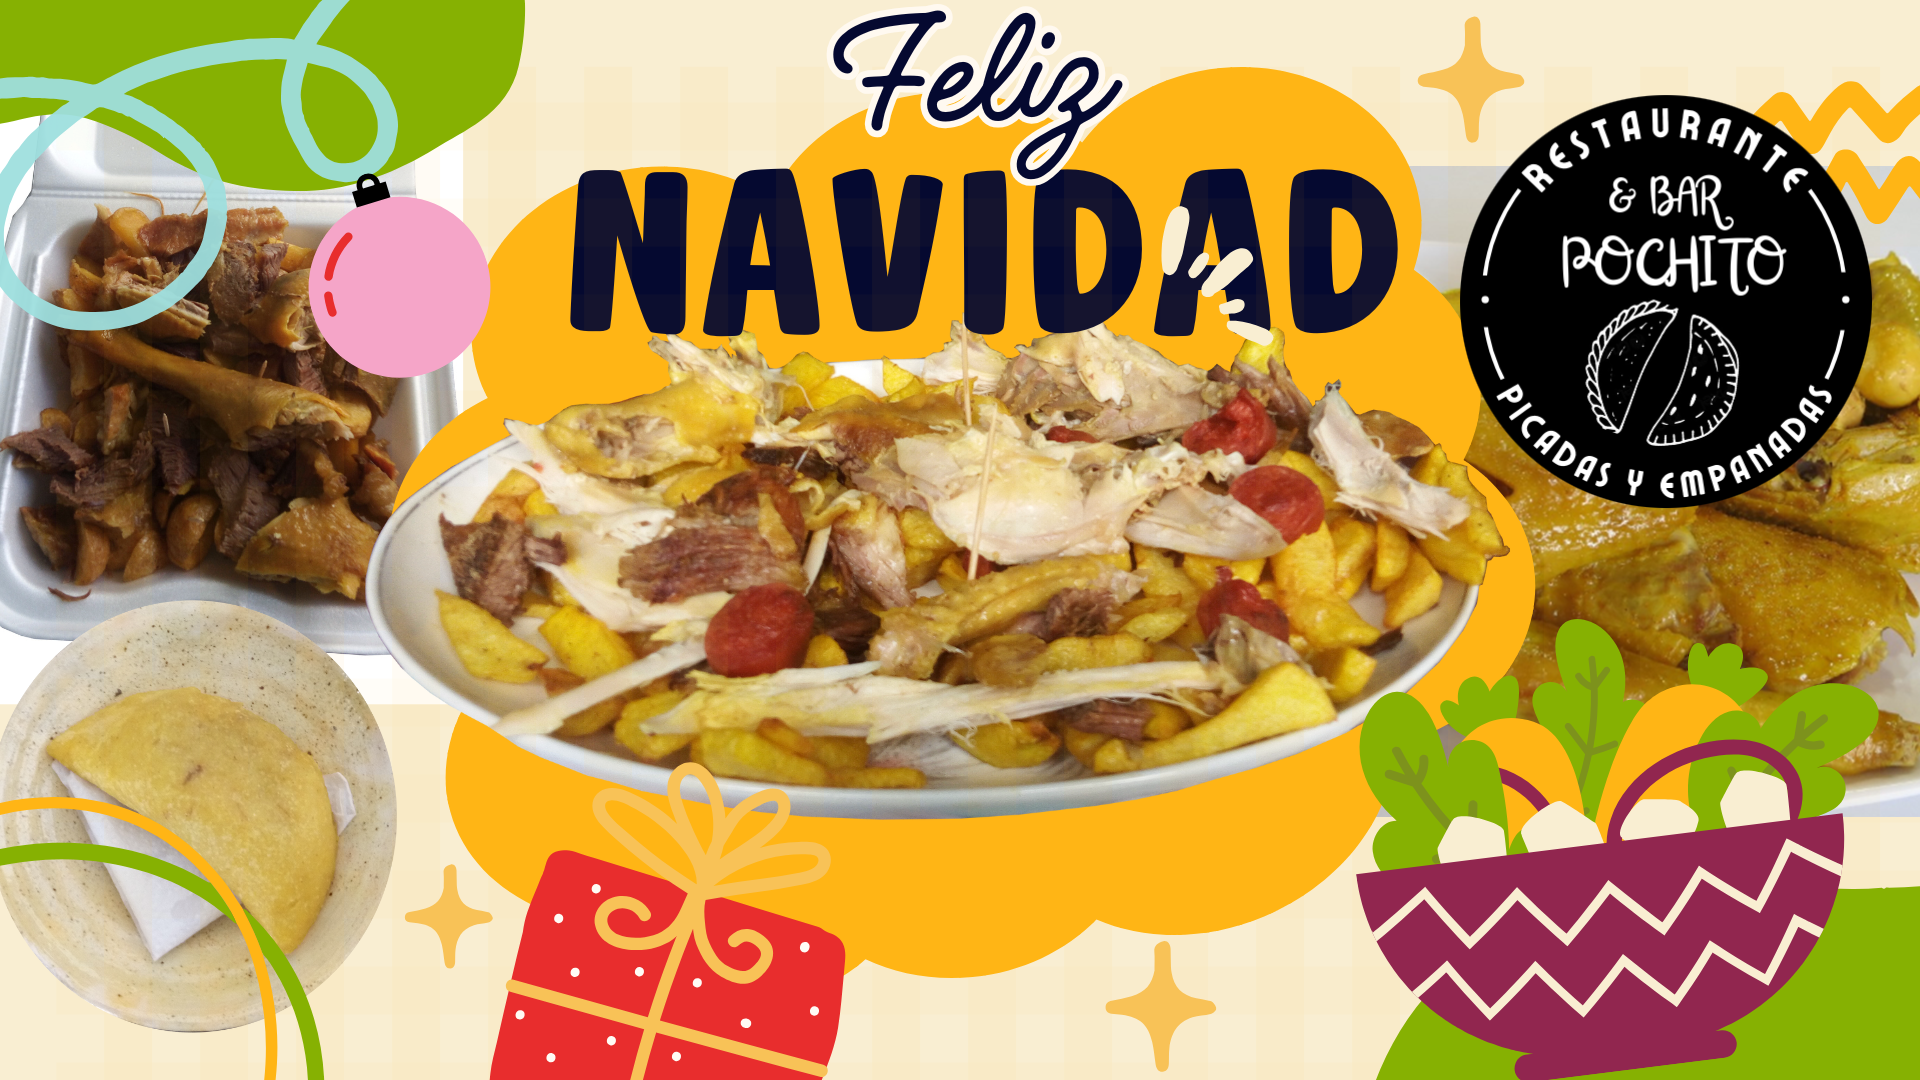
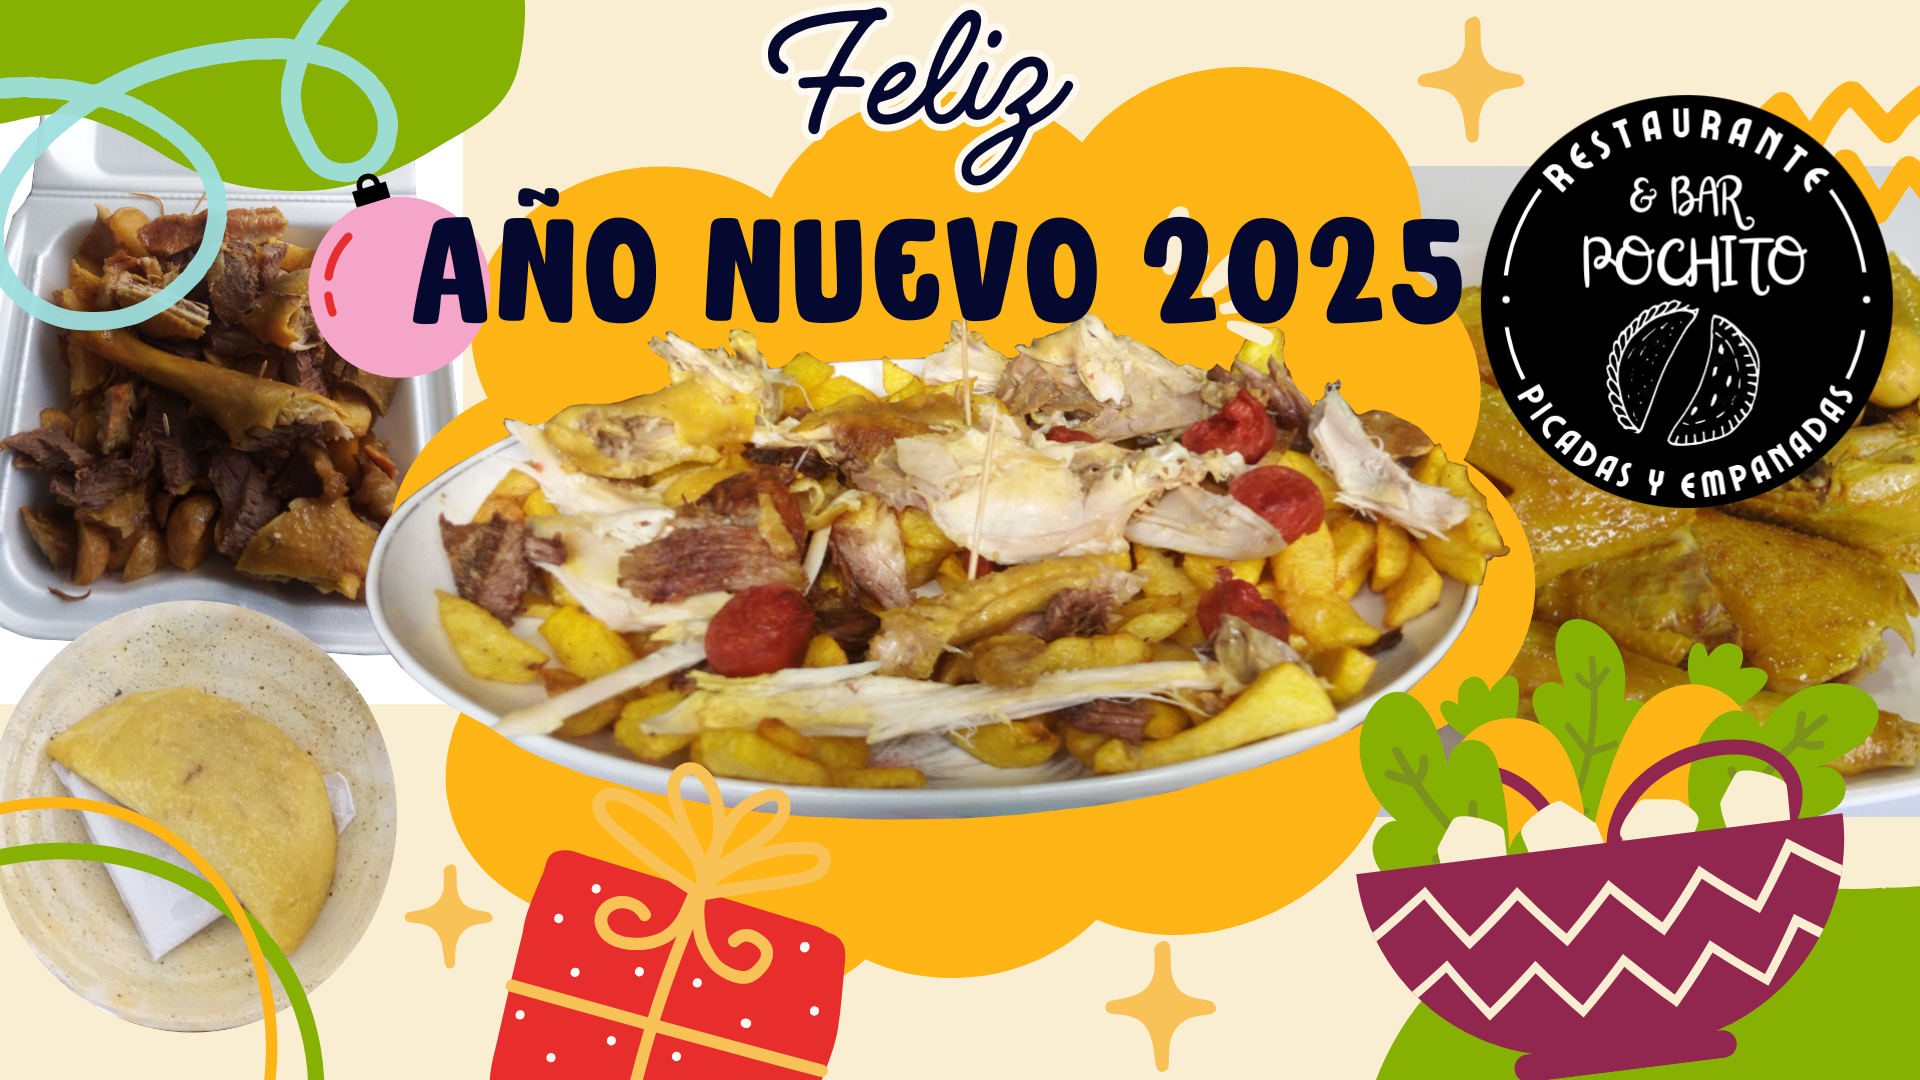
Inicio del sitio web

Changed region(s): [[0.2188, 0.0, 1.0, 0.4889]]

diff --git a/README.md b/README.md
@@ -1,2 +1,2 @@
-# Pagina-web-RB-Pochito
-Pagina web RB Pochito
+# Restaurante-y-Bar-Pochito-a-nuevo-2025
+Restaurante y Bar Pochito año nuevo 2025
